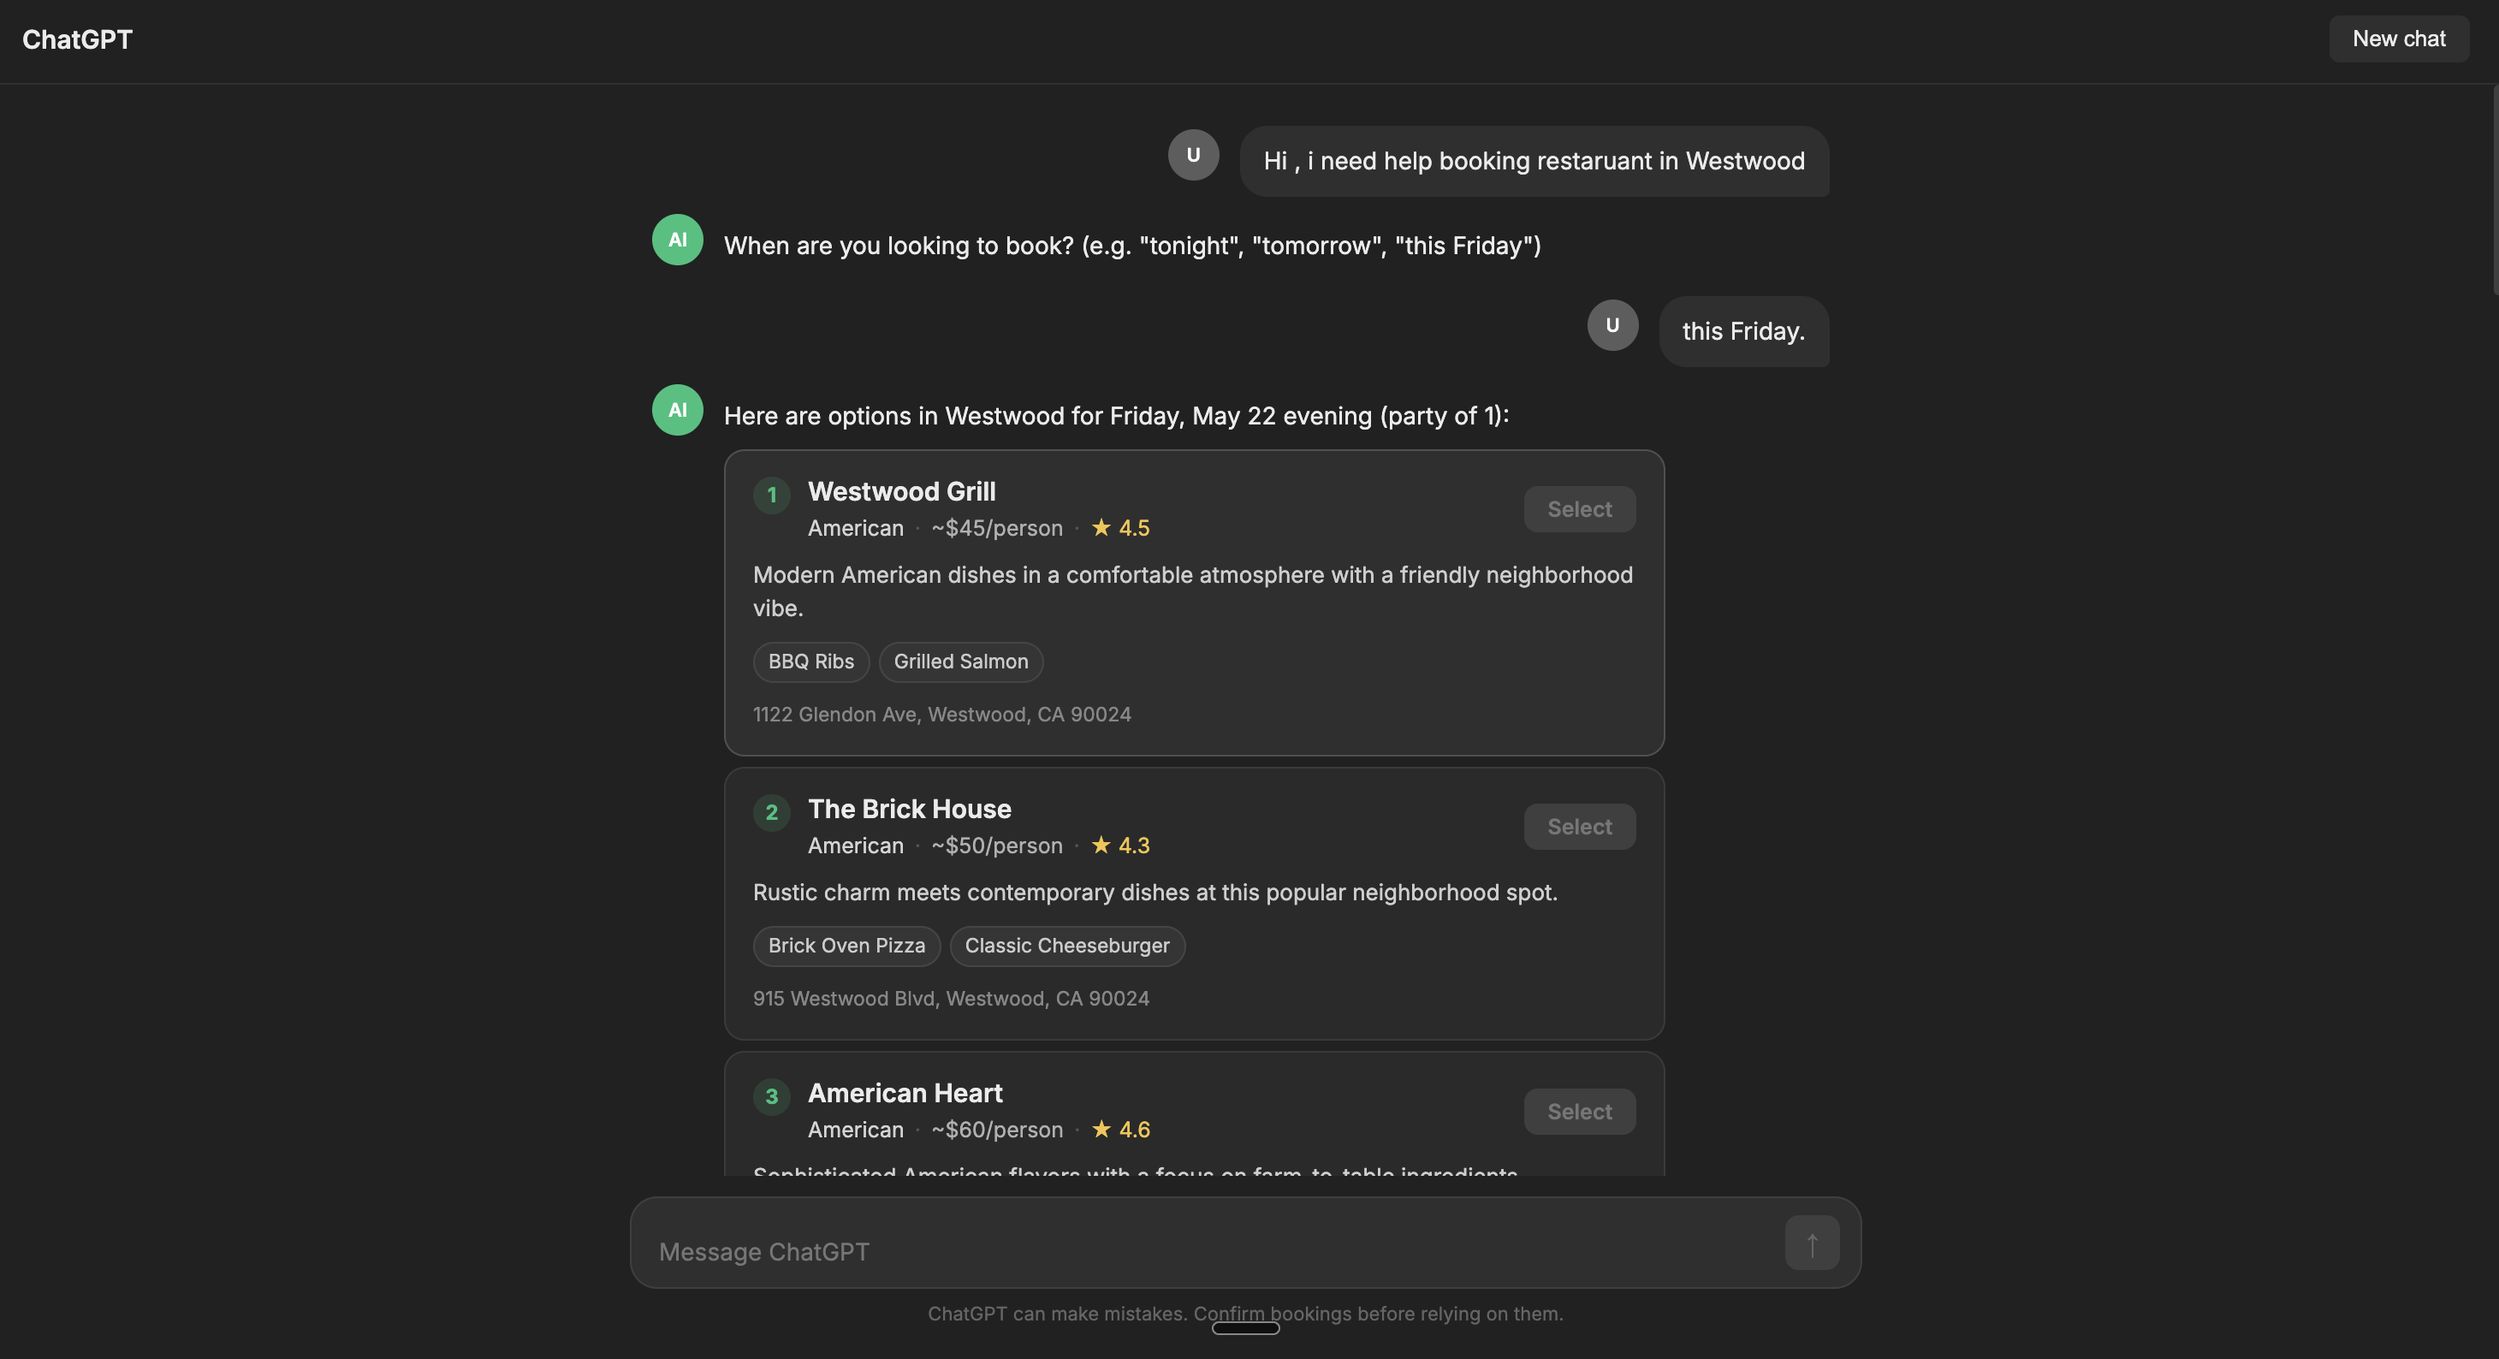
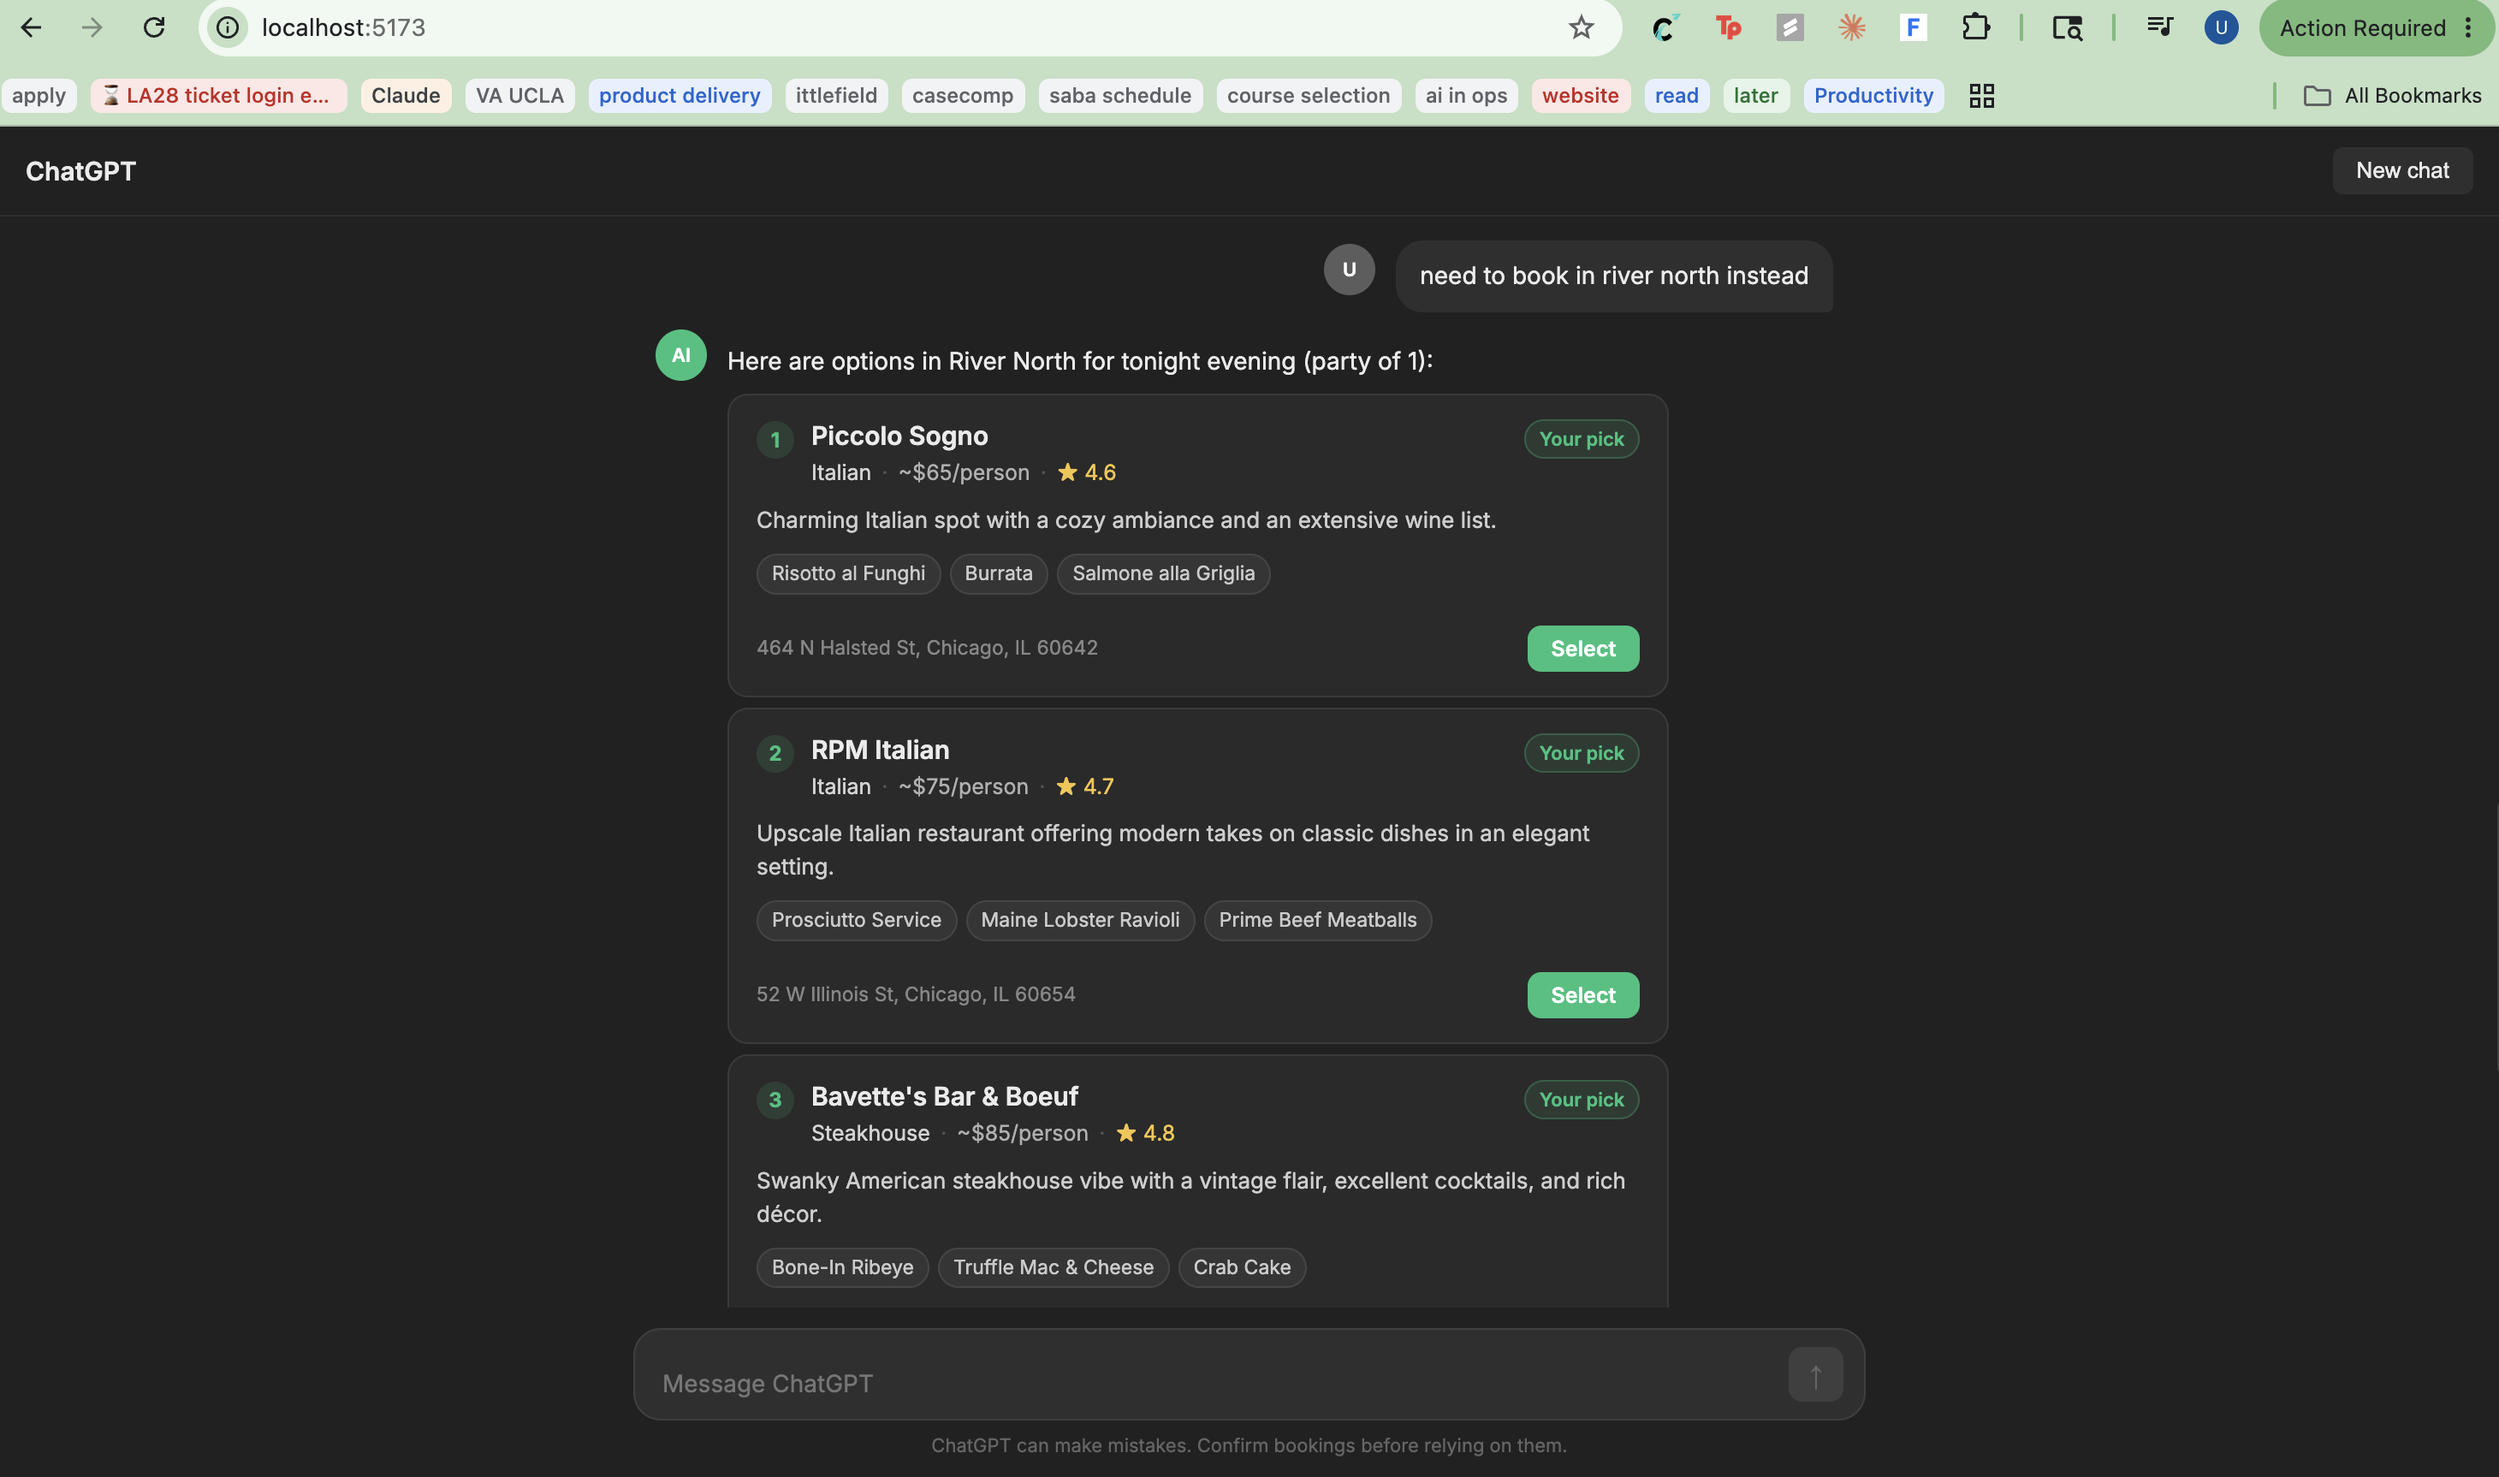
Reposition venue card layout: Your pick badge top-right, Select button bottom-right

diff --git a/prototype/frontend/src/App.jsx b/prototype/frontend/src/App.jsx
@@ -27,14 +27,7 @@ function VenueCard({ venue, index, onSelect, disabled }) {
             </div>
           </div>
         </div>
-        <button
-          type="button"
-          className="venue-card-select"
-          onClick={handleSelect}
-          disabled={disabled}
-        >
-          Select
-        </button>
+        <span className="venue-card-your-pick">Your pick</span>
       </div>
       {venue.description && (
         <p className="venue-card-description">{venue.description}</p>
@@ -46,9 +39,17 @@ function VenueCard({ venue, index, onSelect, disabled }) {
           ))}
         </div>
       )}
-      {venue.address && (
-        <div className="venue-card-address">{venue.address}</div>
-      )}
+      <div className="venue-card-bottom">
+        <span className="venue-card-address">{venue.address || ""}</span>
+        <button
+          type="button"
+          className="venue-card-select"
+          onClick={handleSelect}
+          disabled={disabled}
+        >
+          Select
+        </button>
+      </div>
     </div>
   );
 }

diff --git a/prototype/frontend/src/App.css b/prototype/frontend/src/App.css
@@ -220,6 +220,27 @@ body {
   color: #555;
 }
 
+.venue-card-your-pick {
+  flex-shrink: 0;
+  background: #19c37d22;
+  color: #19c37d;
+  border: 1px solid #19c37d44;
+  padding: 2px 8px;
+  border-radius: 999px;
+  font-size: 11.5px;
+  font-weight: 600;
+  white-space: nowrap;
+  align-self: flex-start;
+}
+
+.venue-card-bottom {
+  display: flex;
+  align-items: center;
+  justify-content: space-between;
+  gap: 12px;
+  margin-top: 2px;
+}
+
 .venue-card-select {
   background: #19c37d;
   color: #fff;
@@ -232,7 +253,6 @@ body {
   transition: background 0.15s, opacity 0.15s;
   font-family: inherit;
   flex-shrink: 0;
-  align-self: center;
 }
 
 .venue-card-select:hover:not(:disabled) {
@@ -272,7 +292,6 @@ body {
 .venue-card-address {
   color: #888;
   font-size: 11.5px;
-  margin-top: 2px;
 }
 
 /* Action buttons (Confirm booking / See other options / Show different options) */
